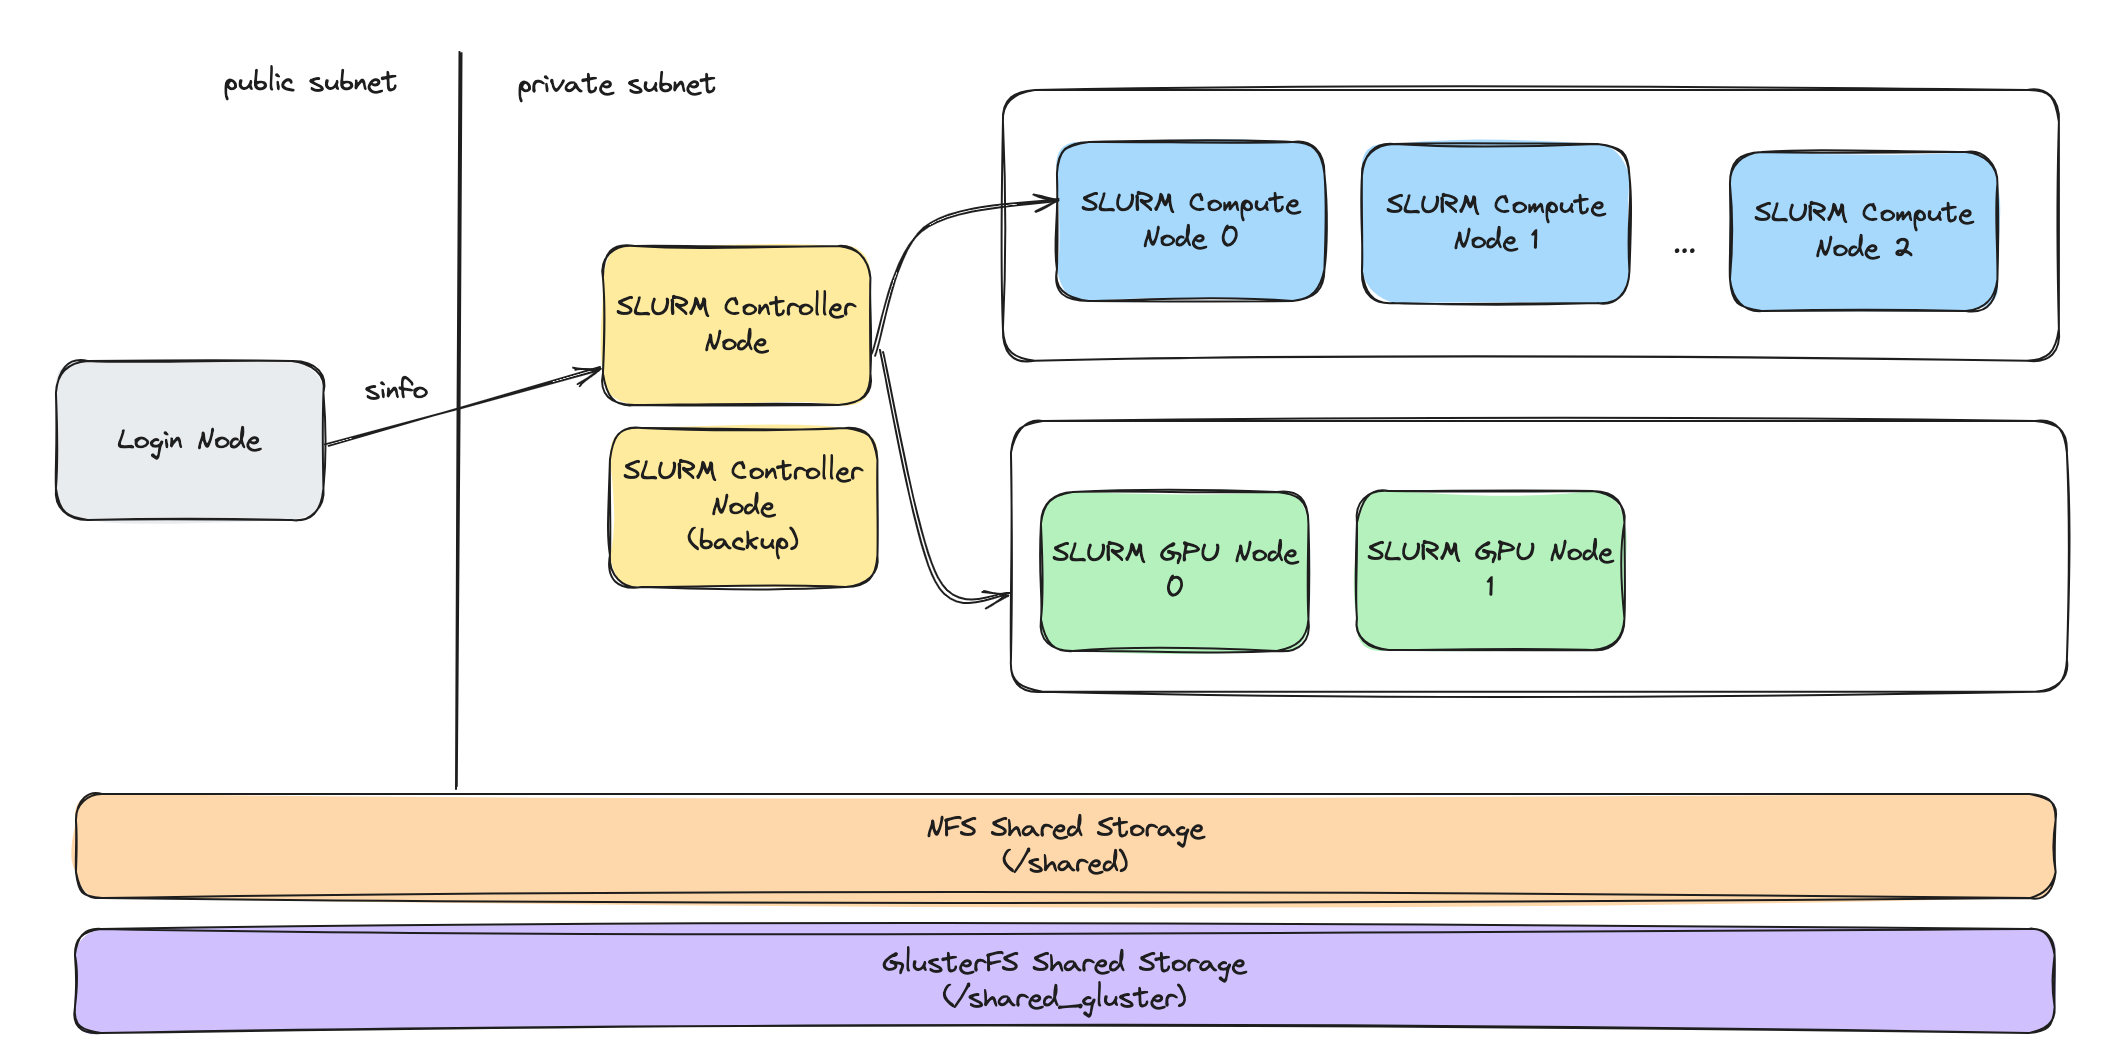
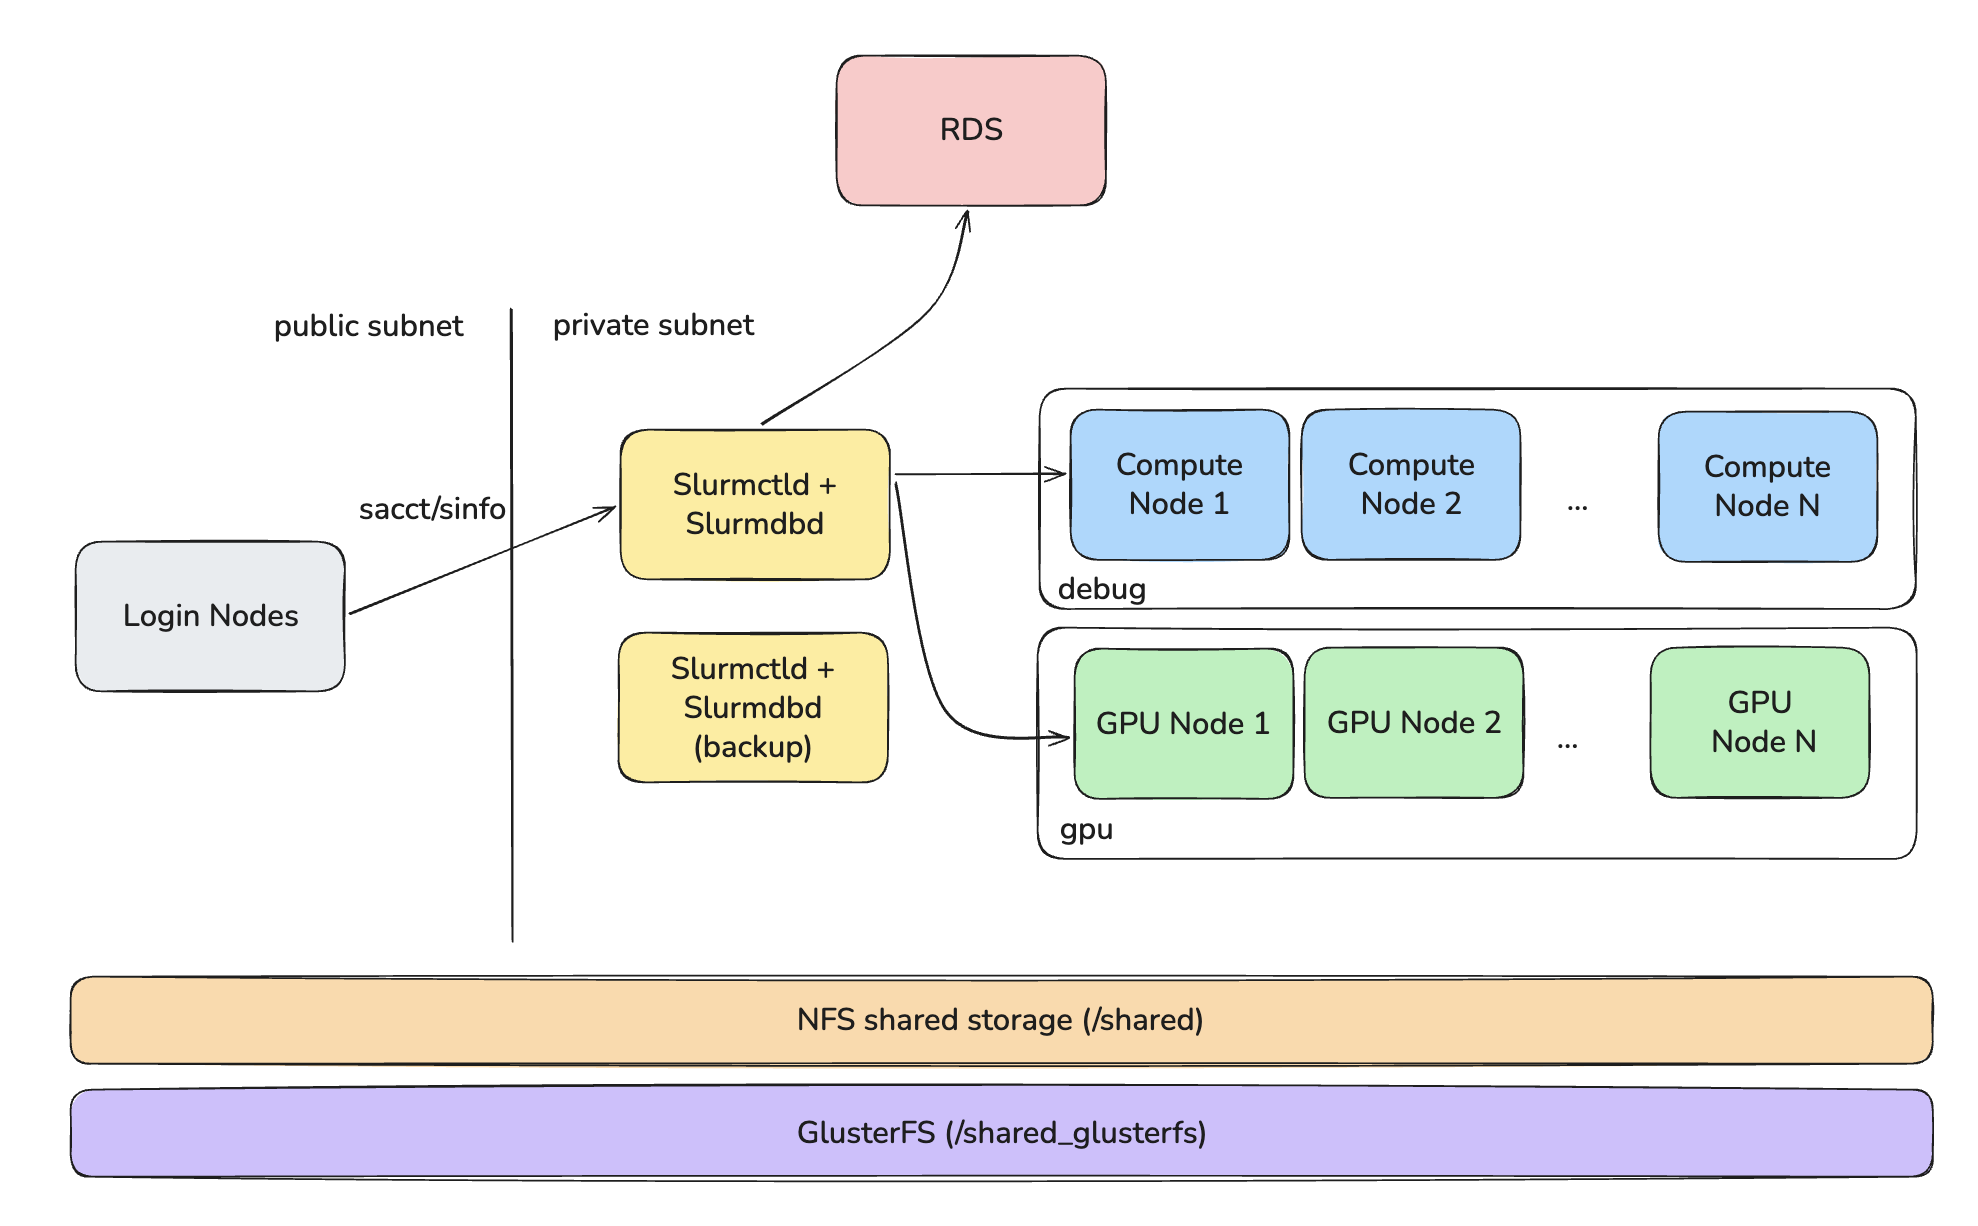
update

diff --git a/README.md b/README.md
@@ -2,6 +2,13 @@
 
 IaC repository for provisioning a SLURM cluster on AWS EC2 instances.
 
+- **Infrastructure as Code (IaC):** Architected and deployed a production-grade High Performance Computing (HPC) cluster on AWS using **Terraform** and **Ansible**.
+- **High-Performance Networking:** Integrated AWS Elastic Fabric Adapter (EFA) with NVIDIA **NCCL** (`aws-ofi-nccl`) to bypass the OS kernel, delivering sub-microsecond latency and 400 Gbps bandwidth for multi-node A100 GPU distributed training.
+- **Workload Management & HPC Tuning:** Configured **Slurm** with advanced GPU-aware scheduling (GRES), strict cgroup resource isolation, network topology optimization, and rapid backfill algorithms to maximize cluster throughput.
+- **Parallel Filesystems:** Deployed and tuned high-throughput **GlusterFS** and NFS storage clusters with asynchronous I/O and HPC-specific sysctl optimizations.
+- **Observability & Accounting:** Established a highly-available accounting pipeline using SlurmDBD backed by AWS RDS (MySQL), and integrated native **NVIDIA DCGM** job profiling via Slurm Prolog/Epilog scripts for granular GPU utilization, memory bandwidth, and power draw metrics.
+- **Reliability Engineering:** Developed automated hardware health checks for instantaneous node draining upon detecting PCIe AER faults, XID errors, or EFA link drops to guarantee resilient operational lifetimes for expensive p4d instances.
+
 ## Cluster Architecture
 
 | Node Role   | Count | Instance Type  | Notes                                                 |
